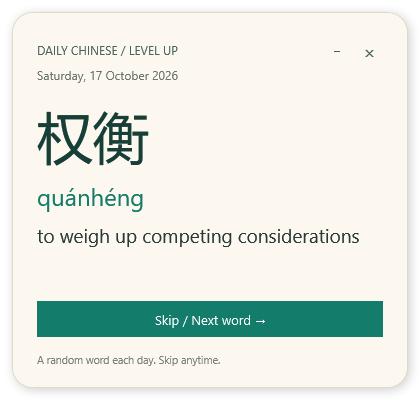
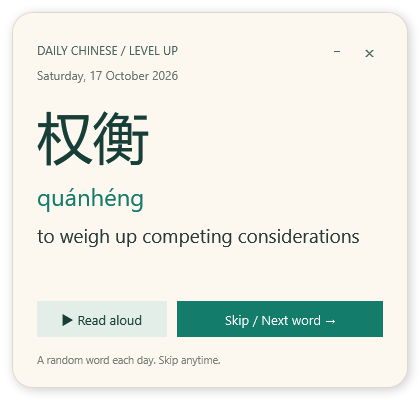
Add offline Mandarin pronunciation

Changed region(s): [[0.0619, 0.75, 0.7738, 0.84]]

diff --git a/README.md b/README.md
@@ -11,6 +11,8 @@ expressions, with simplified Chinese characters, pinyin, and English meanings.
 - 1,000 distinct words and expressions, with an emphasis on challenging vocabulary for discussion, writing, news, and adult conversation.
 - A random word each day, rather than a fixed sequence through the file.
 - A **Skip / Next word** button to draw another word immediately.
+- A **Read aloud** button to pronounce the current Chinese word in Mandarin using a Windows voice.
+- Press **R** to replay pronunciation. Playback stays responsive and stops when the word changes or the app closes.
 - Press **Enter** or the **right arrow** to skip without the mouse.
 - Your current word is saved when you skip and stays the same when you reopen the app that day.
 - Words can repeat on later draws. A draw excludes only the word currently displayed, so skipping always changes the word.
@@ -26,6 +28,7 @@ Here is what it looks like:
 
 - Windows with Windows PowerShell 5.1 and .NET Framework/WPF.
 - A Chinese font such as Microsoft YaHei UI, normally included with Windows.
+- For pronunciation, a Windows Mandarin text-to-speech voice, such as Chinese (Simplified, China). Add one under **Windows Settings > Time & language > Speech > Add voices** if none is installed. The voice download needs an internet connection; normal playback works offline.
 - An extracted app folder that the current user can write to, for saving their current word.
 
 Verified using Windows PowerShell 5.1 on Windows. macOS and Linux are not supported.
@@ -36,6 +39,7 @@ Verified using Windows PowerShell 5.1 on Windows. macOS and Linux are not suppor
 2. Double-click **Open Daily Chinese.cmd**.
 3. Drag the top of the card to move it. The dash minimises it; the cross or Escape closes it.
 4. Click **Skip / Next word**, or press Enter or the right arrow, whenever you want another word.
+5. Click **Read aloud**, or press R, to hear the Chinese word. Clicking again restarts the pronunciation.
 
 Alternatively, run this command from the repository folder:
 
@@ -97,6 +101,7 @@ Run these commands from the repository folder:
 powershell.exe -NoProfile -STA -ExecutionPolicy Bypass -File .\DailyChinese.ps1 -Validate
 powershell.exe -NoProfile -ExecutionPolicy Bypass -File .\tests\Test-WordEngine.ps1
 powershell.exe -NoProfile -STA -ExecutionPolicy Bypass -File .\DailyChinese.ps1 -PreviewPath "$PWD\preview.png"
+powershell.exe -NoProfile -ExecutionPolicy Bypass -File .\tests\Test-SpeechEngine.ps1 -OutputPath "$PWD\speech-test.wav"
 ```
 
 Validation checks the vocabulary count, missing fields, and duplicate words.
@@ -105,6 +110,7 @@ repeats, changed vocabulary, and recovery from invalid state. Tests use a tempor
 state file; validation and preview do not write the user's state or install startup.
 
 The test script accepts `-ScratchDirectory` if a specific writable test folder is needed.
+The speech test requires an installed Mandarin voice and verifies that Windows can synthesise a WAV file. The app searches both desktop and OneCore Windows voice categories, prefers mainland Mandarin, and does not substitute an English or Japanese voice.
 
 ## Files
 
@@ -112,8 +118,10 @@ The test script accepts `-ScratchDirectory` if a specific writable test folder i
 | --- | --- |
 | `DailyChinese.ps1` | WPF interface, skip button, and daily refresh timer |
 | `WordEngine.ps1` | Random selection and saved current-word state |
+| `SpeechEngine.ps1` | Mandarin voice selection, asynchronous speech, and stopping playback |
 | `words.txt` | Vocabulary, pinyin, and English meanings |
 | `tests/Test-WordEngine.ps1` | Checks random selection and persistence |
+| `tests/Test-SpeechEngine.ps1` | Verifies Mandarin speech synthesis |
 | `Open Daily Chinese.cmd` | Opens the app without requiring a terminal |
 | `Install.ps1` / `Uninstall.ps1` | Add or remove the two shortcuts |
 | `Enable automatic start.cmd` / `Disable automatic start.cmd` | Double-click wrappers for shortcut setup |

diff --git a/CHANGELOG.md b/CHANGELOG.md
@@ -1,5 +1,12 @@
 # Changelog
 
+## 2026-10-17: Mandarin pronunciation
+
+- Added Read aloud and the R keyboard shortcut for offline Mandarin pronunciation.
+- Uses installed Windows desktop or OneCore Mandarin voices, preferring mainland Mandarin.
+- Replaying cancels the old utterance; changing words or closing the card stops playback.
+- Added a Mandarin synthesis test and updated the screenshot and instructions.
+
 ## 2026-10-17: random selection and skipping
 
 - Added a Skip / Next word button, plus Enter and right-arrow shortcuts.
